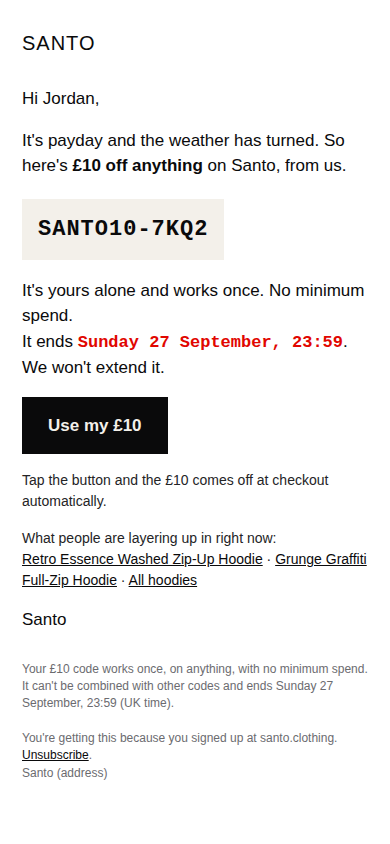
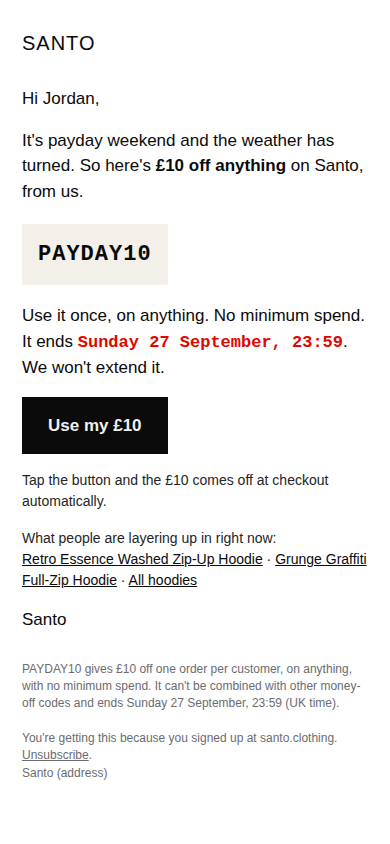
Go live prep: PAYDAY10 discount, real-engaged segment, 3 draft Klaviyo campaigns
Shopify discount PAYDAY10 (£10 off, once per customer, ends 27 Sep 23:59
BST) created; Klaviyo segments and draft campaigns created with templates
assigned. Nothing scheduled or sent.

Claude-Session: https://claude.ai/code/session_01H8dHc3BhfVFMopdmWjjBDL

diff --git a/research/email/out/2-sat-what-it-gets-you.html b/research/email/out/2-sat-what-it-gets-you.html
@@ -2,7 +2,6 @@
 <html lang="en"><head><meta charset="utf-8"><meta name="viewport" content="width=device-width,initial-scale=1">
 <meta name="color-scheme" content="light dark"><meta name="supported-color-schemes" content="light dark">
 <title>Santo</title>
-<link href="https://fonts.googleapis.com/css2?family=Archivo+Black&family=Inter+Tight:wght@400;600&family=Space+Mono:wght@700&display=swap" rel="stylesheet">
 <style>
  body{margin:0;padding:0;background:#FFFFFF;}
  .wrap{max-width:560px;margin:0 auto;padding:28px 22px 36px;font-family:'Inter Tight',Arial,Helvetica,sans-serif;color:#0A0A0B;font-size:17px;line-height:1.5;}
@@ -29,17 +28,17 @@
 <div class="logo">SANTO</div>
 
 <h1>What your £10 gets you</h1>
-<p>{% if person.first_name %}Hi {{ person.first_name }},{% else %}Hi,{% endif %} your £10 is still there. Here's what it does to the pieces people are buying as the weather turns.</p>
-<table class="prod" role="presentation" width="100%" cellpadding="0" cellspacing="0"><tr><td><a href="https://santo.clothing/discount/{% coupon_code 'SANTO10AUTUMN' %}?redirect=/products/retro-essence-washed-oversized-zip-up-hoodie&utm_source=klaviyo&utm_medium=email&utm_campaign=payday10_sep26"><img src="https://cdn.shopify.com/s/files/1/0606/0598/9121/files/Untitled_design_12.png?v=1765545515" alt="Retro Essence Washed Zip-Up Hoodie" width="516"></a>
+<p>{% if person.first_name %}Hi {{ person.first_name }},{% else %}Hi,{% endif %} your £10 code still works. Here's what it does to the pieces people are buying as the weather turns.</p>
+<table class="prod" role="presentation" width="100%" cellpadding="0" cellspacing="0"><tr><td><a href="https://santo.clothing/discount/PAYDAY10?redirect=/products/retro-essence-washed-oversized-zip-up-hoodie&utm_source=klaviyo&utm_medium=email&utm_campaign=payday10_sep26"><img src="https://cdn.shopify.com/s/files/1/0606/0598/9121/files/Untitled_design_12.png?v=1765545515" alt="Retro Essence Washed Zip-Up Hoodie" width="516"></a>
 <div class="pname">Retro Essence Washed Zip-Up Hoodie</div>
-<div class="price"><span class="was">£77.99</span> &nbsp;£67.99 with your code</div></td></tr><tr><td><a href="https://santo.clothing/discount/{% coupon_code 'SANTO10AUTUMN' %}?redirect=/products/graffiti-grunge-full-zip-hoodie&utm_source=klaviyo&utm_medium=email&utm_campaign=payday10_sep26"><img src="https://cdn.shopify.com/s/files/1/0606/0598/9121/files/12233.jpg?v=1753340564" alt="Grunge Graffiti Full-Zip Hoodie" width="516"></a>
+<div class="price"><span class="was">£77.99</span> &nbsp;£67.99 with your code</div></td></tr><tr><td><a href="https://santo.clothing/discount/PAYDAY10?redirect=/products/graffiti-grunge-full-zip-hoodie&utm_source=klaviyo&utm_medium=email&utm_campaign=payday10_sep26"><img src="https://cdn.shopify.com/s/files/1/0606/0598/9121/files/12233.jpg?v=1753340564" alt="Grunge Graffiti Full-Zip Hoodie" width="516"></a>
 <div class="pname">Grunge Graffiti Full-Zip Hoodie</div>
-<div class="price"><span class="was">£73.99</span> &nbsp;£63.99 with your code</div></td></tr><tr><td><a href="https://santo.clothing/discount/{% coupon_code 'SANTO10AUTUMN' %}?redirect=/products/x-ray-skeleton-waffle-long-sleeve-t-shirt&utm_source=klaviyo&utm_medium=email&utm_campaign=payday10_sep26"><img src="https://cdn.shopify.com/s/files/1/0606/0598/9121/files/5_988b12a2-ee37-476e-806e-9c0b092b7721.jpg?v=1752705367" alt="X-Ray Skeleton Waffle Long Sleeve" width="516"></a>
+<div class="price"><span class="was">£73.99</span> &nbsp;£63.99 with your code</div></td></tr><tr><td><a href="https://santo.clothing/discount/PAYDAY10?redirect=/products/x-ray-skeleton-waffle-long-sleeve-t-shirt&utm_source=klaviyo&utm_medium=email&utm_campaign=payday10_sep26"><img src="https://cdn.shopify.com/s/files/1/0606/0598/9121/files/5_988b12a2-ee37-476e-806e-9c0b092b7721.jpg?v=1752705367" alt="X-Ray Skeleton Waffle Long Sleeve" width="516"></a>
 <div class="pname">X-Ray Skeleton Waffle Long Sleeve</div>
 <div class="price"><span class="was">£40.99</span> &nbsp;£30.99 with your code</div></td></tr></table>
-<p>Your code: <span class="code" style="font-size:17px;padding:8px 10px;">{% coupon_code 'SANTO10AUTUMN' %}</span></p>
-<p><a class="btn" href="https://santo.clothing/discount/{% coupon_code 'SANTO10AUTUMN' %}?redirect=/collections/all-hoodies&utm_source=klaviyo&utm_medium=email&utm_campaign=payday10_sep26">Shop hoodies with £10 off</a></p>
+<p>Your code: <span class="code" style="font-size:17px;padding:8px 10px;">PAYDAY10</span></p>
+<p><a class="btn" href="https://santo.clothing/discount/PAYDAY10?redirect=/collections/all-hoodies&utm_source=klaviyo&utm_medium=email&utm_campaign=payday10_sep26">Shop hoodies with £10 off</a></p>
 <p class="muted">Ends <span class="dl">Sunday 27 September, 23:59</span>.</p>
-<div class="fine">Your £10 code works once, on anything, with no minimum spend. It can't be combined with other codes and ends Sunday 27 September, 23:59 (UK time).<br><br>
+<div class="fine">PAYDAY10 gives £10 off one order per customer, on anything, with no minimum spend. It can't be combined with other money-off codes and ends Sunday 27 September, 23:59 (UK time).<br><br>
 You're getting this because you signed up at santo.clothing. {% unsubscribe 'Unsubscribe' %}.<br>{{ organization.name }} {{ organization.full_address }}</div>
 </div></body></html>

diff --git a/research/email/preview/2-sat-what-it-gets-you.html b/research/email/preview/2-sat-what-it-gets-you.html
@@ -2,7 +2,6 @@
 <html lang="en"><head><meta charset="utf-8"><meta name="viewport" content="width=device-width,initial-scale=1">
 <meta name="color-scheme" content="light dark"><meta name="supported-color-schemes" content="light dark">
 <title>Santo</title>
-<link href="https://fonts.googleapis.com/css2?family=Archivo+Black&family=Inter+Tight:wght@400;600&family=Space+Mono:wght@700&display=swap" rel="stylesheet">
 <style>
  body{margin:0;padding:0;background:#FFFFFF;}
  .wrap{max-width:560px;margin:0 auto;padding:28px 22px 36px;font-family:'Inter Tight',Arial,Helvetica,sans-serif;color:#0A0A0B;font-size:17px;line-height:1.5;}
@@ -29,17 +28,17 @@
 <div class="logo">SANTO</div>
 
 <h1>What your £10 gets you</h1>
-<p>Hi Jordan, your £10 is still there. Here's what it does to the pieces people are buying as the weather turns.</p>
-<table class="prod" role="presentation" width="100%" cellpadding="0" cellspacing="0"><tr><td><a href="https://santo.clothing/discount/SANTO10-7KQ2?redirect=/products/retro-essence-washed-oversized-zip-up-hoodie&utm_source=klaviyo&utm_medium=email&utm_campaign=payday10_sep26"><img src="https://cdn.shopify.com/s/files/1/0606/0598/9121/files/Untitled_design_12.png?v=1765545515" alt="Retro Essence Washed Zip-Up Hoodie" width="516"></a>
+<p>Hi Jordan, your £10 code still works. Here's what it does to the pieces people are buying as the weather turns.</p>
+<table class="prod" role="presentation" width="100%" cellpadding="0" cellspacing="0"><tr><td><a href="https://santo.clothing/discount/PAYDAY10?redirect=/products/retro-essence-washed-oversized-zip-up-hoodie&utm_source=klaviyo&utm_medium=email&utm_campaign=payday10_sep26"><img src="https://cdn.shopify.com/s/files/1/0606/0598/9121/files/Untitled_design_12.png?v=1765545515" alt="Retro Essence Washed Zip-Up Hoodie" width="516"></a>
 <div class="pname">Retro Essence Washed Zip-Up Hoodie</div>
-<div class="price"><span class="was">£77.99</span> &nbsp;£67.99 with your code</div></td></tr><tr><td><a href="https://santo.clothing/discount/SANTO10-7KQ2?redirect=/products/graffiti-grunge-full-zip-hoodie&utm_source=klaviyo&utm_medium=email&utm_campaign=payday10_sep26"><img src="https://cdn.shopify.com/s/files/1/0606/0598/9121/files/12233.jpg?v=1753340564" alt="Grunge Graffiti Full-Zip Hoodie" width="516"></a>
+<div class="price"><span class="was">£77.99</span> &nbsp;£67.99 with your code</div></td></tr><tr><td><a href="https://santo.clothing/discount/PAYDAY10?redirect=/products/graffiti-grunge-full-zip-hoodie&utm_source=klaviyo&utm_medium=email&utm_campaign=payday10_sep26"><img src="https://cdn.shopify.com/s/files/1/0606/0598/9121/files/12233.jpg?v=1753340564" alt="Grunge Graffiti Full-Zip Hoodie" width="516"></a>
 <div class="pname">Grunge Graffiti Full-Zip Hoodie</div>
-<div class="price"><span class="was">£73.99</span> &nbsp;£63.99 with your code</div></td></tr><tr><td><a href="https://santo.clothing/discount/SANTO10-7KQ2?redirect=/products/x-ray-skeleton-waffle-long-sleeve-t-shirt&utm_source=klaviyo&utm_medium=email&utm_campaign=payday10_sep26"><img src="https://cdn.shopify.com/s/files/1/0606/0598/9121/files/5_988b12a2-ee37-476e-806e-9c0b092b7721.jpg?v=1752705367" alt="X-Ray Skeleton Waffle Long Sleeve" width="516"></a>
+<div class="price"><span class="was">£73.99</span> &nbsp;£63.99 with your code</div></td></tr><tr><td><a href="https://santo.clothing/discount/PAYDAY10?redirect=/products/x-ray-skeleton-waffle-long-sleeve-t-shirt&utm_source=klaviyo&utm_medium=email&utm_campaign=payday10_sep26"><img src="https://cdn.shopify.com/s/files/1/0606/0598/9121/files/5_988b12a2-ee37-476e-806e-9c0b092b7721.jpg?v=1752705367" alt="X-Ray Skeleton Waffle Long Sleeve" width="516"></a>
 <div class="pname">X-Ray Skeleton Waffle Long Sleeve</div>
 <div class="price"><span class="was">£40.99</span> &nbsp;£30.99 with your code</div></td></tr></table>
-<p>Your code: <span class="code" style="font-size:17px;padding:8px 10px;">SANTO10-7KQ2</span></p>
-<p><a class="btn" href="https://santo.clothing/discount/SANTO10-7KQ2?redirect=/collections/all-hoodies&utm_source=klaviyo&utm_medium=email&utm_campaign=payday10_sep26">Shop hoodies with £10 off</a></p>
+<p>Your code: <span class="code" style="font-size:17px;padding:8px 10px;">PAYDAY10</span></p>
+<p><a class="btn" href="https://santo.clothing/discount/PAYDAY10?redirect=/collections/all-hoodies&utm_source=klaviyo&utm_medium=email&utm_campaign=payday10_sep26">Shop hoodies with £10 off</a></p>
 <p class="muted">Ends <span class="dl">Sunday 27 September, 23:59</span>.</p>
-<div class="fine">Your £10 code works once, on anything, with no minimum spend. It can't be combined with other codes and ends Sunday 27 September, 23:59 (UK time).<br><br>
-You're getting this because you signed up at santo.clothing. <a href="#">Unsubscribe</a>.<br>Santo (address)</div>
+<div class="fine">PAYDAY10 gives £10 off one order per customer, on anything, with no minimum spend. It can't be combined with other money-off codes and ends Sunday 27 September, 23:59 (UK time).<br><br>
+You're getting this because you signed up at santo.clothing. <u>Unsubscribe</u>.<br>Santo (address)</div>
 </div></body></html>

diff --git a/research/email/out/1-fri-your-10.html b/research/email/out/1-fri-your-10.html
@@ -2,7 +2,6 @@
 <html lang="en"><head><meta charset="utf-8"><meta name="viewport" content="width=device-width,initial-scale=1">
 <meta name="color-scheme" content="light dark"><meta name="supported-color-schemes" content="light dark">
 <title>Santo</title>
-<link href="https://fonts.googleapis.com/css2?family=Archivo+Black&family=Inter+Tight:wght@400;600&family=Space+Mono:wght@700&display=swap" rel="stylesheet">
 <style>
  body{margin:0;padding:0;background:#FFFFFF;}
  .wrap{max-width:560px;margin:0 auto;padding:28px 22px 36px;font-family:'Inter Tight',Arial,Helvetica,sans-serif;color:#0A0A0B;font-size:17px;line-height:1.5;}
@@ -29,14 +28,14 @@
 <div class="logo">SANTO</div>
 
 <p>{% if person.first_name %}Hi {{ person.first_name }},{% else %}Hi,{% endif %}</p>
-<p>It's payday and the weather has turned. So here's <strong>£10 off anything</strong> on Santo, from us.</p>
-<div class="code">{% coupon_code 'SANTO10AUTUMN' %}</div>
-<p>It's yours alone and works once. No minimum spend.<br>It ends <span class="dl">Sunday 27 September, 23:59</span>. We won't extend it.</p>
-<p><a class="btn" href="https://santo.clothing/discount/{% coupon_code 'SANTO10AUTUMN' %}?redirect=/collections/new-arrivals-all&utm_source=klaviyo&utm_medium=email&utm_campaign=payday10_sep26">Use my £10</a></p>
+<p>It's payday weekend and the weather has turned. So here's <strong>£10 off anything</strong> on Santo, from us.</p>
+<div class="code">PAYDAY10</div>
+<p>Use it once, on anything. No minimum spend.<br>It ends <span class="dl">Sunday 27 September, 23:59</span>. We won't extend it.</p>
+<p><a class="btn" href="https://santo.clothing/discount/PAYDAY10?redirect=/collections/new-arrivals-all&utm_source=klaviyo&utm_medium=email&utm_campaign=payday10_sep26">Use my £10</a></p>
 <p class="muted">Tap the button and the £10 comes off at checkout automatically.</p>
 <p class="muted">What people are layering up in right now:<br>
-<a href="https://santo.clothing/products/retro-essence-washed-oversized-zip-up-hoodie?utm_source=klaviyo&utm_medium=email&utm_campaign=payday10_sep26">Retro Essence Washed Zip-Up Hoodie</a> · <a href="https://santo.clothing/products/graffiti-grunge-full-zip-hoodie?utm_source=klaviyo&utm_medium=email&utm_campaign=payday10_sep26">Grunge Graffiti Full-Zip Hoodie</a> · <a href="https://santo.clothing/collections/all-hoodies?utm_source=klaviyo&utm_medium=email&utm_campaign=payday10_sep26">All hoodies</a></p>
+<a href="https://santo.clothing/discount/PAYDAY10?redirect=/products/retro-essence-washed-oversized-zip-up-hoodie&utm_source=klaviyo&utm_medium=email&utm_campaign=payday10_sep26">Retro Essence Washed Zip-Up Hoodie</a> · <a href="https://santo.clothing/discount/PAYDAY10?redirect=/products/graffiti-grunge-full-zip-hoodie&utm_source=klaviyo&utm_medium=email&utm_campaign=payday10_sep26">Grunge Graffiti Full-Zip Hoodie</a> · <a href="https://santo.clothing/discount/PAYDAY10?redirect=/collections/all-hoodies&utm_source=klaviyo&utm_medium=email&utm_campaign=payday10_sep26">All hoodies</a></p>
 <p>Santo</p>
-<div class="fine">Your £10 code works once, on anything, with no minimum spend. It can't be combined with other codes and ends Sunday 27 September, 23:59 (UK time).<br><br>
+<div class="fine">PAYDAY10 gives £10 off one order per customer, on anything, with no minimum spend. It can't be combined with other money-off codes and ends Sunday 27 September, 23:59 (UK time).<br><br>
 You're getting this because you signed up at santo.clothing. {% unsubscribe 'Unsubscribe' %}.<br>{{ organization.name }} {{ organization.full_address }}</div>
 </div></body></html>

diff --git a/research/email/preview/1-fri-your-10.html b/research/email/preview/1-fri-your-10.html
@@ -2,7 +2,6 @@
 <html lang="en"><head><meta charset="utf-8"><meta name="viewport" content="width=device-width,initial-scale=1">
 <meta name="color-scheme" content="light dark"><meta name="supported-color-schemes" content="light dark">
 <title>Santo</title>
-<link href="https://fonts.googleapis.com/css2?family=Archivo+Black&family=Inter+Tight:wght@400;600&family=Space+Mono:wght@700&display=swap" rel="stylesheet">
 <style>
  body{margin:0;padding:0;background:#FFFFFF;}
  .wrap{max-width:560px;margin:0 auto;padding:28px 22px 36px;font-family:'Inter Tight',Arial,Helvetica,sans-serif;color:#0A0A0B;font-size:17px;line-height:1.5;}
@@ -29,14 +28,14 @@
 <div class="logo">SANTO</div>
 
 <p>Hi Jordan,</p>
-<p>It's payday and the weather has turned. So here's <strong>£10 off anything</strong> on Santo, from us.</p>
-<div class="code">SANTO10-7KQ2</div>
-<p>It's yours alone and works once. No minimum spend.<br>It ends <span class="dl">Sunday 27 September, 23:59</span>. We won't extend it.</p>
-<p><a class="btn" href="https://santo.clothing/discount/SANTO10-7KQ2?redirect=/collections/new-arrivals-all&utm_source=klaviyo&utm_medium=email&utm_campaign=payday10_sep26">Use my £10</a></p>
+<p>It's payday weekend and the weather has turned. So here's <strong>£10 off anything</strong> on Santo, from us.</p>
+<div class="code">PAYDAY10</div>
+<p>Use it once, on anything. No minimum spend.<br>It ends <span class="dl">Sunday 27 September, 23:59</span>. We won't extend it.</p>
+<p><a class="btn" href="https://santo.clothing/discount/PAYDAY10?redirect=/collections/new-arrivals-all&utm_source=klaviyo&utm_medium=email&utm_campaign=payday10_sep26">Use my £10</a></p>
 <p class="muted">Tap the button and the £10 comes off at checkout automatically.</p>
 <p class="muted">What people are layering up in right now:<br>
-<a href="https://santo.clothing/products/retro-essence-washed-oversized-zip-up-hoodie?utm_source=klaviyo&utm_medium=email&utm_campaign=payday10_sep26">Retro Essence Washed Zip-Up Hoodie</a> · <a href="https://santo.clothing/products/graffiti-grunge-full-zip-hoodie?utm_source=klaviyo&utm_medium=email&utm_campaign=payday10_sep26">Grunge Graffiti Full-Zip Hoodie</a> · <a href="https://santo.clothing/collections/all-hoodies?utm_source=klaviyo&utm_medium=email&utm_campaign=payday10_sep26">All hoodies</a></p>
+<a href="https://santo.clothing/discount/PAYDAY10?redirect=/products/retro-essence-washed-oversized-zip-up-hoodie&utm_source=klaviyo&utm_medium=email&utm_campaign=payday10_sep26">Retro Essence Washed Zip-Up Hoodie</a> · <a href="https://santo.clothing/discount/PAYDAY10?redirect=/products/graffiti-grunge-full-zip-hoodie&utm_source=klaviyo&utm_medium=email&utm_campaign=payday10_sep26">Grunge Graffiti Full-Zip Hoodie</a> · <a href="https://santo.clothing/discount/PAYDAY10?redirect=/collections/all-hoodies&utm_source=klaviyo&utm_medium=email&utm_campaign=payday10_sep26">All hoodies</a></p>
 <p>Santo</p>
-<div class="fine">Your £10 code works once, on anything, with no minimum spend. It can't be combined with other codes and ends Sunday 27 September, 23:59 (UK time).<br><br>
-You're getting this because you signed up at santo.clothing. <a href="#">Unsubscribe</a>.<br>Santo (address)</div>
+<div class="fine">PAYDAY10 gives £10 off one order per customer, on anything, with no minimum spend. It can't be combined with other money-off codes and ends Sunday 27 September, 23:59 (UK time).<br><br>
+You're getting this because you signed up at santo.clothing. <u>Unsubscribe</u>.<br>Santo (address)</div>
 </div></body></html>

diff --git a/research/email/out/3-sun-ends-tonight.html b/research/email/out/3-sun-ends-tonight.html
@@ -2,7 +2,6 @@
 <html lang="en"><head><meta charset="utf-8"><meta name="viewport" content="width=device-width,initial-scale=1">
 <meta name="color-scheme" content="light dark"><meta name="supported-color-schemes" content="light dark">
 <title>Santo</title>
-<link href="https://fonts.googleapis.com/css2?family=Archivo+Black&family=Inter+Tight:wght@400;600&family=Space+Mono:wght@700&display=swap" rel="stylesheet">
 <style>
  body{margin:0;padding:0;background:#FFFFFF;}
  .wrap{max-width:560px;margin:0 auto;padding:28px 22px 36px;font-family:'Inter Tight',Arial,Helvetica,sans-serif;color:#0A0A0B;font-size:17px;line-height:1.5;}
@@ -30,10 +29,10 @@
 
 <p>{% if person.first_name %}Hi {{ person.first_name }},{% else %}Hi,{% endif %}</p>
 <p>Your £10 ends tonight at <span class="dl">23:59</span>.</p>
-<div class="code">{% coupon_code 'SANTO10AUTUMN' %}</div>
+<div class="code">PAYDAY10</div>
 <p>After that it's gone, and we won't reissue it.</p>
-<p><a class="btn" href="https://santo.clothing/discount/{% coupon_code 'SANTO10AUTUMN' %}?redirect=/collections/new-arrivals-all&utm_source=klaviyo&utm_medium=email&utm_campaign=payday10_sep26">Use it before midnight</a></p>
+<p><a class="btn" href="https://santo.clothing/discount/PAYDAY10?redirect=/collections/new-arrivals-all&utm_source=klaviyo&utm_medium=email&utm_campaign=payday10_sep26">Use it before midnight</a></p>
 <p>Santo</p>
-<div class="fine">Your £10 code works once, on anything, with no minimum spend. It can't be combined with other codes and ends Sunday 27 September, 23:59 (UK time).<br><br>
+<div class="fine">PAYDAY10 gives £10 off one order per customer, on anything, with no minimum spend. It can't be combined with other money-off codes and ends Sunday 27 September, 23:59 (UK time).<br><br>
 You're getting this because you signed up at santo.clothing. {% unsubscribe 'Unsubscribe' %}.<br>{{ organization.name }} {{ organization.full_address }}</div>
 </div></body></html>

diff --git a/research/email/preview/3-sun-ends-tonight.html b/research/email/preview/3-sun-ends-tonight.html
@@ -2,7 +2,6 @@
 <html lang="en"><head><meta charset="utf-8"><meta name="viewport" content="width=device-width,initial-scale=1">
 <meta name="color-scheme" content="light dark"><meta name="supported-color-schemes" content="light dark">
 <title>Santo</title>
-<link href="https://fonts.googleapis.com/css2?family=Archivo+Black&family=Inter+Tight:wght@400;600&family=Space+Mono:wght@700&display=swap" rel="stylesheet">
 <style>
  body{margin:0;padding:0;background:#FFFFFF;}
  .wrap{max-width:560px;margin:0 auto;padding:28px 22px 36px;font-family:'Inter Tight',Arial,Helvetica,sans-serif;color:#0A0A0B;font-size:17px;line-height:1.5;}
@@ -30,10 +29,10 @@
 
 <p>Hi Jordan,</p>
 <p>Your £10 ends tonight at <span class="dl">23:59</span>.</p>
-<div class="code">SANTO10-7KQ2</div>
+<div class="code">PAYDAY10</div>
 <p>After that it's gone, and we won't reissue it.</p>
-<p><a class="btn" href="https://santo.clothing/discount/SANTO10-7KQ2?redirect=/collections/new-arrivals-all&utm_source=klaviyo&utm_medium=email&utm_campaign=payday10_sep26">Use it before midnight</a></p>
+<p><a class="btn" href="https://santo.clothing/discount/PAYDAY10?redirect=/collections/new-arrivals-all&utm_source=klaviyo&utm_medium=email&utm_campaign=payday10_sep26">Use it before midnight</a></p>
 <p>Santo</p>
-<div class="fine">Your £10 code works once, on anything, with no minimum spend. It can't be combined with other codes and ends Sunday 27 September, 23:59 (UK time).<br><br>
-You're getting this because you signed up at santo.clothing. <a href="#">Unsubscribe</a>.<br>Santo (address)</div>
+<div class="fine">PAYDAY10 gives £10 off one order per customer, on anything, with no minimum spend. It can't be combined with other money-off codes and ends Sunday 27 September, 23:59 (UK time).<br><br>
+You're getting this because you signed up at santo.clothing. <u>Unsubscribe</u>.<br>Santo (address)</div>
 </div></body></html>

diff --git a/research/email/build_emails.py b/research/email/build_emails.py
@@ -2,14 +2,14 @@
 """Build the 3-email "Your £10" payday weekend campaign as Klaviyo-ready HTML.
 
 Honest version of the store-credit mechanic: every recipient gets a real,
-unique, single-use £10 code (Klaviyo coupon tag), a real deadline that is
+£10 code (PAYDAY10, once per customer, no minimum), a real deadline that is
 never extended, and no transactional disguise. Output: research/email/out/*.html
 """
 
 from pathlib import Path
 
 OUT = Path(__file__).parent / "out"
-COUPON = "{% coupon_code 'SANTO10AUTUMN' %}"  # Klaviyo unique-code coupon (create it first, see PLAN)
+COUPON = "PAYDAY10"  # live Shopify discount: £10 off, no minimum, once per customer, ends 27 Sep 22:59 UTC
 DEADLINE = "Sunday 27 September, 23:59"
 NAME = "{{ first_name|default:'' }}"
 HI = "{% if person.first_name %}Hi {{ person.first_name }},{% else %}Hi,{% endif %}"
@@ -43,7 +43,6 @@ def shell(preheader, body):
 <html lang="en"><head><meta charset="utf-8"><meta name="viewport" content="width=device-width,initial-scale=1">
 <meta name="color-scheme" content="light dark"><meta name="supported-color-schemes" content="light dark">
 <title>Santo</title>
-<link href="https://fonts.googleapis.com/css2?family=Archivo+Black&family=Inter+Tight:wght@400;600&family=Space+Mono:wght@700&display=swap" rel="stylesheet">
 <style>
  body{{margin:0;padding:0;background:{PAPER};}}
  .wrap{{max-width:560px;margin:0 auto;padding:28px 22px 36px;font-family:'Inter Tight',Arial,Helvetica,sans-serif;color:{INK};font-size:17px;line-height:1.5;}}
@@ -69,7 +68,7 @@ def shell(preheader, body):
 <div class="wrap">
 <div class="logo">SANTO</div>
 {body}
-<div class="fine">Your £10 code works once, on anything, with no minimum spend. It can't be combined with other codes and ends {DEADLINE} (UK time).<br><br>
+<div class="fine">PAYDAY10 gives £10 off one order per customer, on anything, with no minimum spend. It can't be combined with other money-off codes and ends {DEADLINE} (UK time).<br><br>
 You're getting this because you signed up at santo.clothing. {{% unsubscribe 'Unsubscribe' %}}.<br>{{{{ organization.name }}}} {{{{ organization.full_address }}}}</div>
 </div></body></html>"""
 
@@ -77,13 +76,13 @@ You're getting this because you signed up at santo.clothing. {{% unsubscribe 'Un
 def email1():
     body = f"""
 <p>{HI}</p>
-<p>It's payday and the weather has turned. So here's <strong>£10 off anything</strong> on Santo, from us.</p>
+<p>It's payday weekend and the weather has turned. So here's <strong>£10 off anything</strong> on Santo, from us.</p>
 <div class="code">{COUPON}</div>
-<p>It's yours alone and works once. No minimum spend.<br>It ends <span class="dl">{DEADLINE}</span>. We won't extend it.</p>
+<p>Use it once, on anything. No minimum spend.<br>It ends <span class="dl">{DEADLINE}</span>. We won't extend it.</p>
 <p><a class="btn" href="{code_link()}">Use my £10</a></p>
 <p class="muted">Tap the button and the £10 comes off at checkout automatically.</p>
 <p class="muted">What people are layering up in right now:<br>
-<a href="{link('/products/' + PRODUCTS[0]['handle'])}">{PRODUCTS[0]['title']}</a> · <a href="{link('/products/' + PRODUCTS[1]['handle'])}">{PRODUCTS[1]['title']}</a> · <a href="{link('/collections/all-hoodies')}">All hoodies</a></p>
+<a href="{code_link('/products/' + PRODUCTS[0]['handle'])}">{PRODUCTS[0]['title']}</a> · <a href="{code_link('/products/' + PRODUCTS[1]['handle'])}">{PRODUCTS[1]['title']}</a> · <a href="{code_link('/collections/all-hoodies')}">All hoodies</a></p>
 <p>Santo</p>"""
     return shell("No minimum spend. Your code works until Sunday 23:59.", body)
 
@@ -97,7 +96,7 @@ def email2():
 <div class="price"><span class="was">£{pr['price']:.2f}</span> &nbsp;£{after:.2f} with your code</div></td></tr>"""
     body = f"""
 <h1>What your £10 gets you</h1>
-<p>{HI} your £10 is still there. Here's what it does to the pieces people are buying as the weather turns.</p>
+<p>{HI} your £10 code still works. Here's what it does to the pieces people are buying as the weather turns.</p>
 <table class="prod" role="presentation" width="100%" cellpadding="0" cellspacing="0">{rows}</table>
 <p>Your code: <span class="code" style="font-size:17px;padding:8px 10px;">{COUPON}</span></p>
 <p><a class="btn" href="{code_link('/collections/all-hoodies')}">Shop hoodies with £10 off</a></p>

diff --git a/research/email/PLAN.md b/research/email/PLAN.md
@@ -1,5 +1,22 @@
 # SANTO email plan: "Your £10" payday weekend (Fri 25 – Sun 27 Sep 2026)
 
+## LIVE STATUS (created 25 Sep 2026, 22:45 UK): everything is built, nothing is sent
+
+| What | Where | Status |
+|---|---|---|
+| Discount **PAYDAY10**: £10 off, no minimum, once per customer, ends **Sun 27 Sep 23:59 BST** (can stack with free delivery, not with other money-off codes) | Shopify → Discounts (`gid://shopify/DiscountCodeNode/1796564386049`) | **Active now** |
+| Segment **Real engaged (click 60d / order 120d / new 15d)**: **5,099 profiles** | Klaviyo `V85MZ5` | Live |
+| Segment **PAYDAY10 · opened/clicked since Sat send, no order** (fills after email 1 sends) | Klaviyo `VKdABa` | Live |
+| Campaign **1: Sat 26 Sep 11:00 BST, "Your £10"**. Subject: "{name}, £10 off anything. Ends Sunday." Excludes the cold and bounced DIAG segments | Klaviyo `01M3D8J8DVJQEKMFCGPK1XP6VG` | **Draft, send time pre-filled** |
+| Campaign **3: Sun 27 Sep 18:00 BST, "Your £10 ends tonight"**, to openers and clickers with no order | Klaviyo `01M3D8JGK4W6TTN6H159DSAN8S` | **Draft, send time pre-filled** |
+| Campaign **2 (optional), "What your £10 gets you"** | Klaviyo `01M3D8JNAKDA1YHH8Z505MZQ66` | Draft, no time set. Only use it if you want a third email |
+
+**Changes from the original plan:**
+- **Shared honest code instead of unique codes.** Klaviyo's automatic Shopify unique codes can only be switched on in its web app, and uploading ~14k codes by API wasn't reliable. `PAYDAY10` is shared and once per customer, and the copy no longer claims the code is "yours alone". To switch to unique codes later: Klaviyo → Coupons → Create → Shopify, then replace `PAYDAY10` in the templates with `{% coupon_code 'NAME' %}`.
+- **Timing.** The Friday 18:00 slot passed while things were being built, so email 1 moves to Saturday 11:00 ("payday weekend"). The deadline stays Sunday 23:59. Email 2 is optional, to protect unsubscribes.
+
+**To go live:** open each campaign in Klaviyo (`klaviyo.com/campaign/{id}/wizard`), send a test to yourself, click the button in the test and check the £10 comes off at checkout, then press **Schedule**.
+
 ## Why this, from your own data
 - Last 12 months: 47 campaigns, ~1.1M sends, **£7,045 attributed revenue**. The typical campaign gets **0.3% clicks** (the fashion average is 1–1.5%) and **0.4–1.1% unsubscribes** (the norm is ~0.2%).
 - Three emails beat everything else, and all three felt like **"something of yours is waiting"**:
